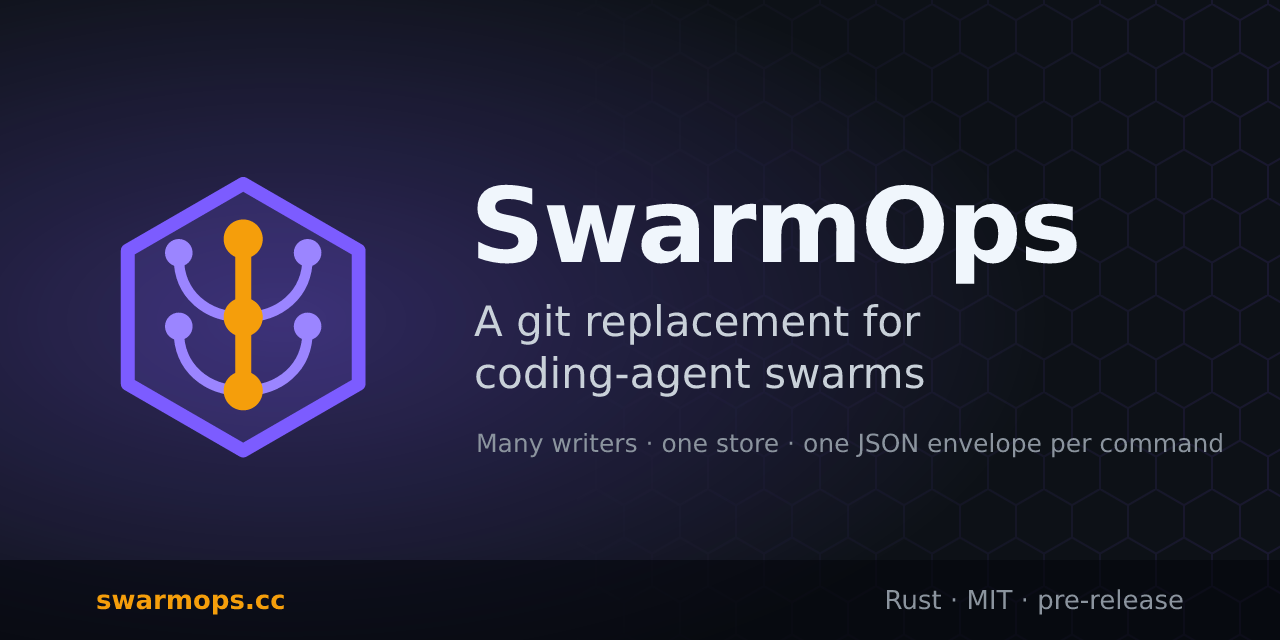
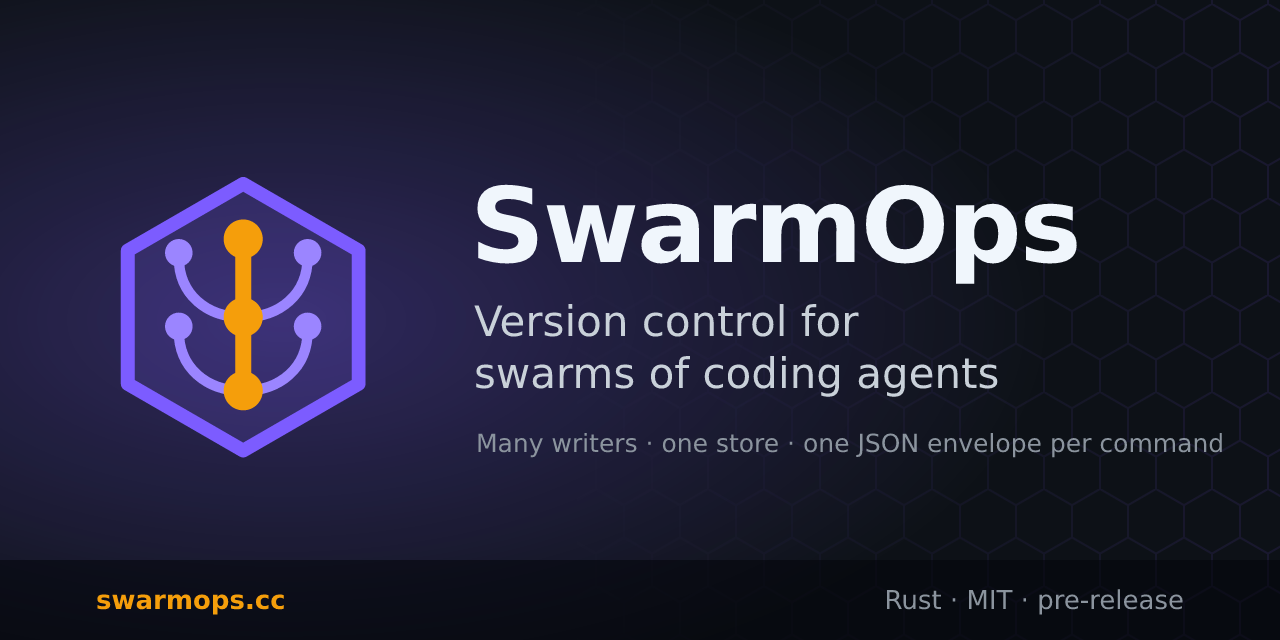
docs(site): Put the one claim on the social card
The card said "A git replacement", which goals.md lists as a non-goal.
It now reads "Version control for swarms of coding agents", rendered
by scripts/site/render-images.cjs to both PNGs. The site README notes
that the social preview upload has no API.

Changed region(s): [[0.375, 0.4688, 0.7812, 0.625]]

diff --git a/scripts/site/README.md b/scripts/site/README.md
@@ -51,4 +51,7 @@ or the README; change them together.
 `swarmops.cc` as its custom domain (the domain is on Cloudflare; its mail records stay as they
 are); [`web/README.md`](../../web/README.md#deploy) describes it. Every `*.pages.dev` address
 answers with `X-Robots-Tag: noindex`, so only `swarmops.cc` is indexed. Set the repository's
-social preview to `docs/assets/social-card.png` and its website to `https://swarmops.cc`.
+social preview to `docs/assets/social-card.png` and its website to `https://swarmops.cc`. The
+social preview upload has no API: it is set in the repository's settings page. The website and
+the rest of the About box come from [`.github/repo-settings.json`](../../.github/repo-settings.json),
+applied by `python3 -I scripts/repo-settings.py apply`.
